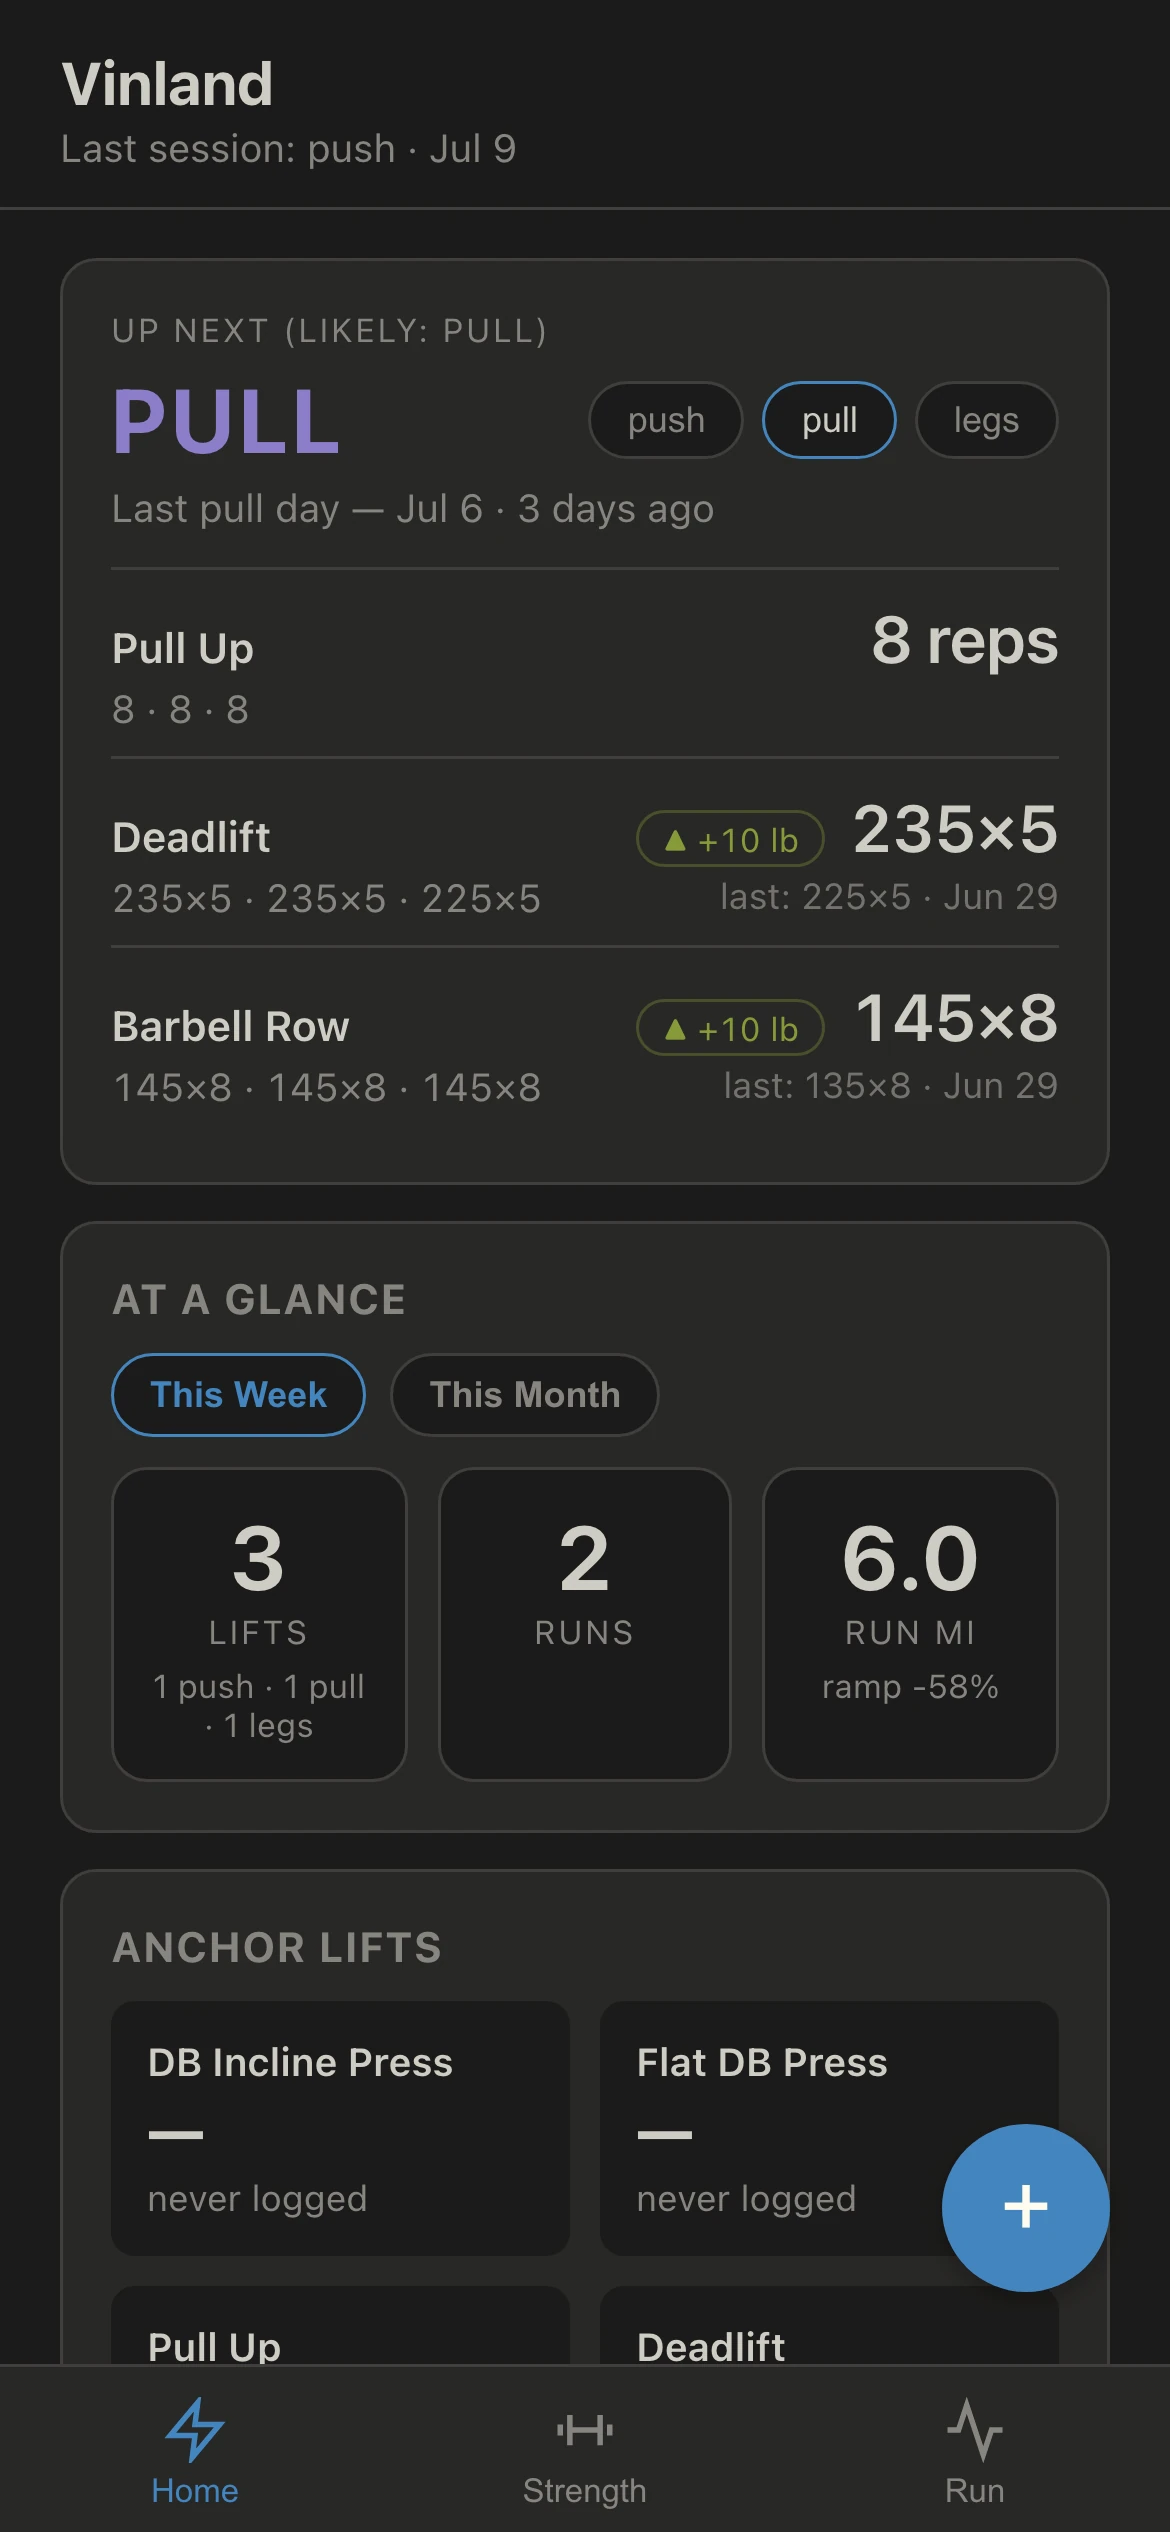
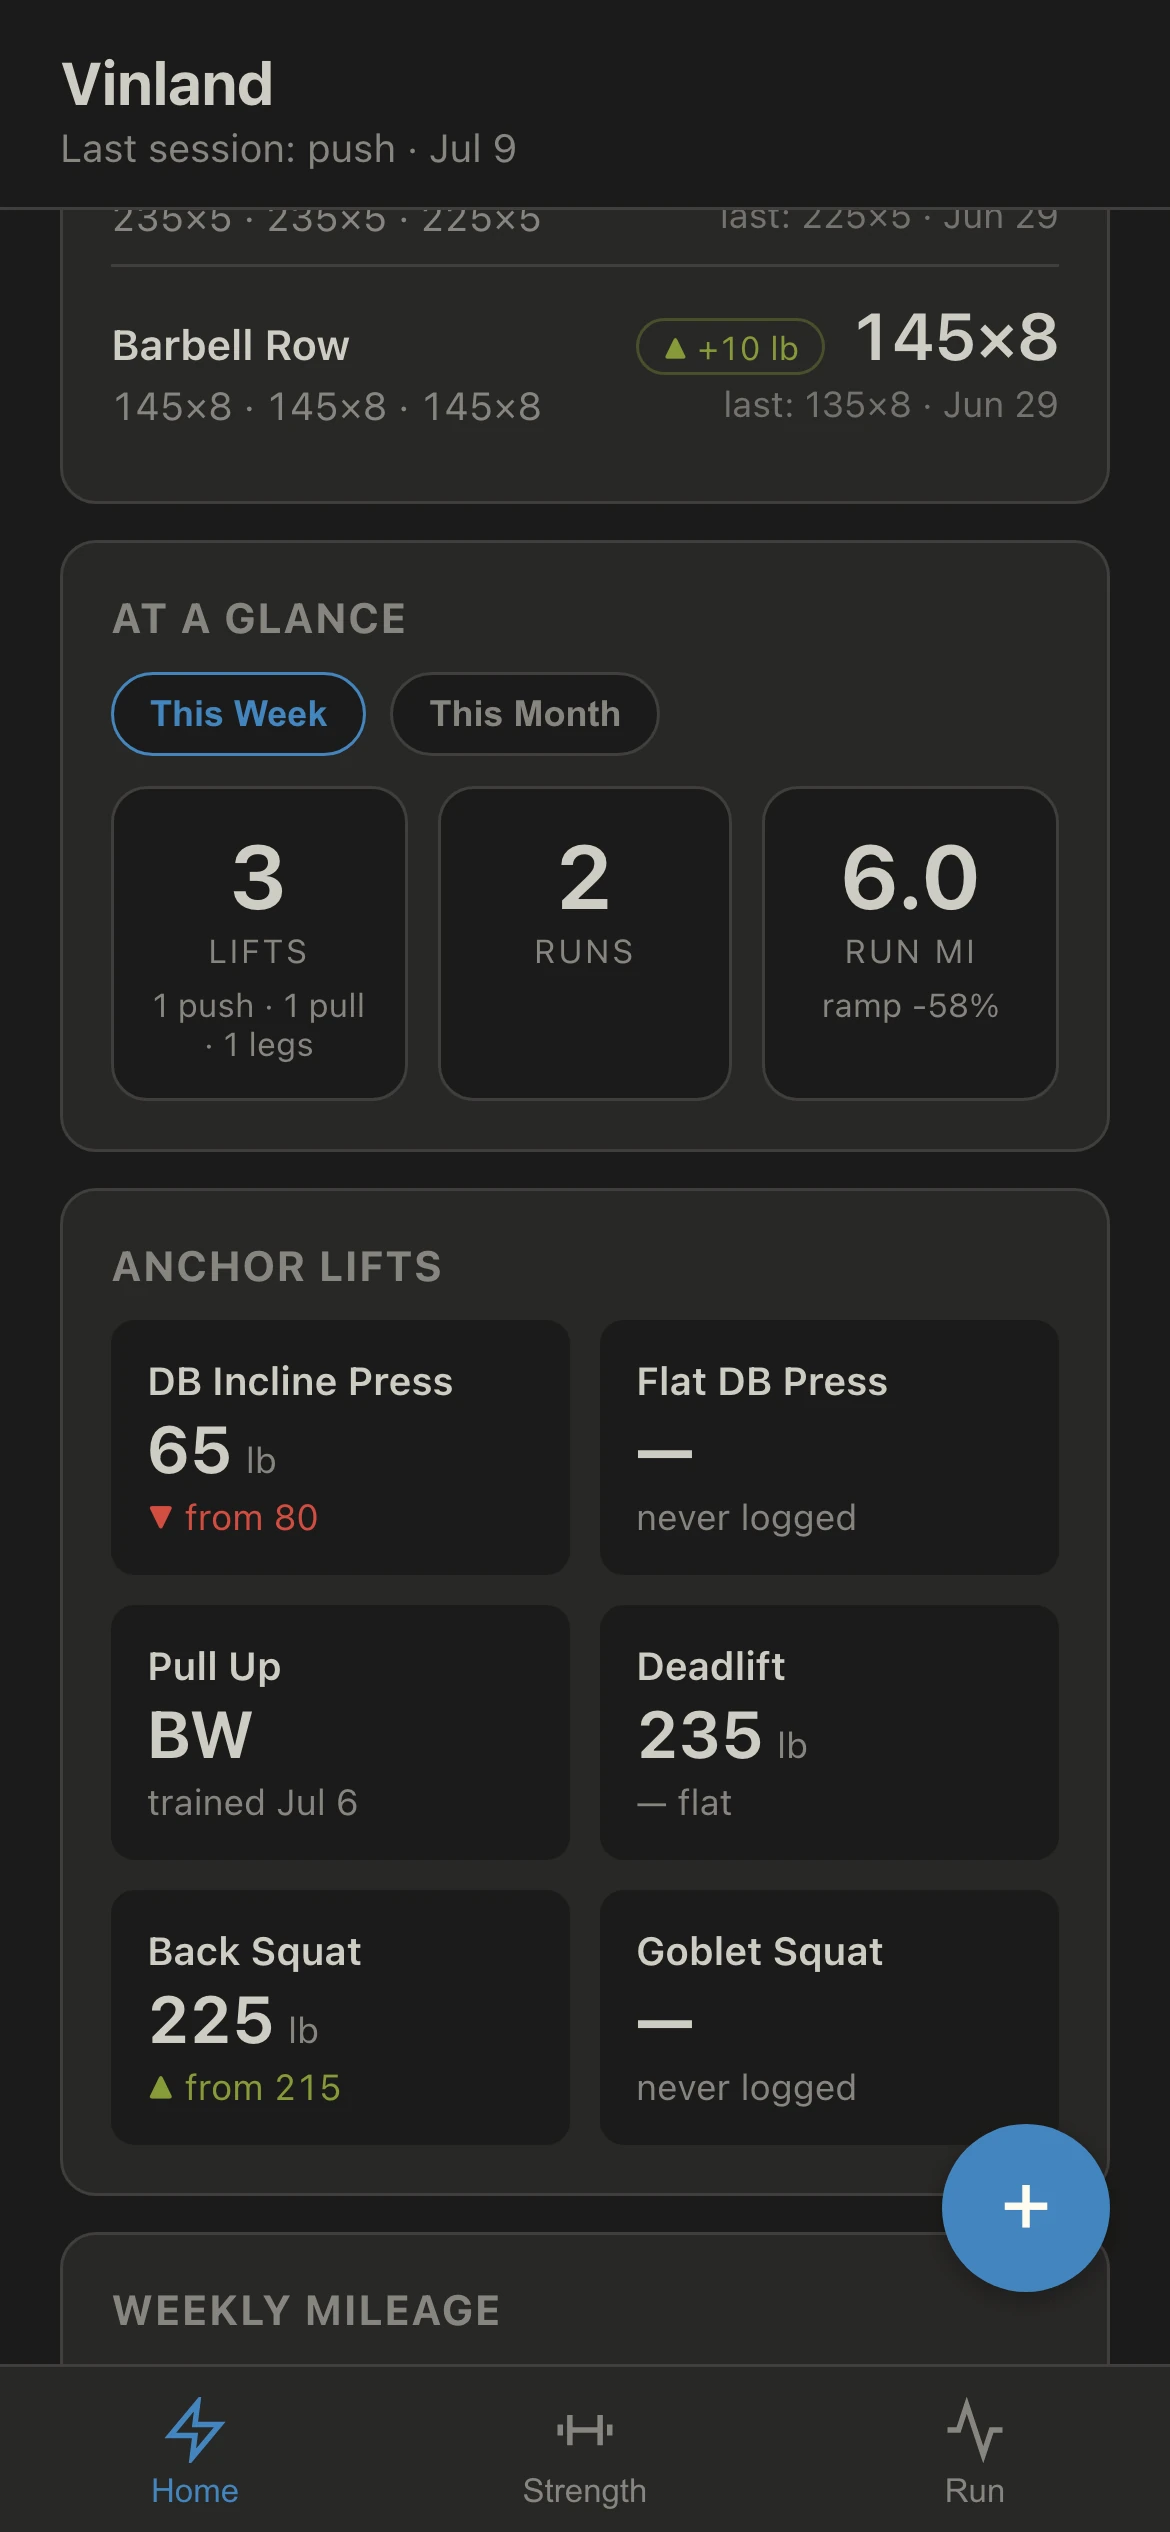
feat(demos): Home still shows anchor lift trends
Recapture Home scrolled to Anchor Lifts: DB Incline Press 65 lb down
from 80, Flat DB Press never logged — synthetic demo data.

diff --git a/index.html b/index.html
@@ -86,8 +86,8 @@
             <p><span class="lead">Results</span>One screen for the whole training picture, lifts and runs together, that no off-the-shelf app offers, self-hosted at near-zero cost. Lifting analytics and natural-language logging work today; running and dual-progression views land next.</p>
             <div class="demo-stack">
               <figure class="demo demo--shot">
-                <img src="assets/demos/vinland/web/01-home-hybrid.webp" width="1170" height="2532" loading="lazy" alt="Vinland phone Home: Up Next pull day, At a Glance with 3 lifts and 2 runs for 6.0 run miles this week" />
-                <figcaption>One glance for the hybrid week — lifts and runs together</figcaption>
+                <img src="assets/demos/vinland/web/01-home-hybrid.webp" width="1170" height="2532" loading="lazy" alt="Vinland phone Home: At a Glance hybrid week plus Anchor Lifts grid showing DB Incline Press down from 80 to 65 lb and Flat DB Press never logged" />
+                <figcaption>Hybrid week at a glance — lifts, runs, and honest anchor trends</figcaption>
               </figure>
               <figure class="demo demo--shot">
                 <img src="assets/demos/vinland/web/02-strength-progression.webp" width="1170" height="2532" loading="lazy" alt="Vinland phone Strength: Deadlift top-set progression chart climbing over months plus weekly hard-set volume" />
